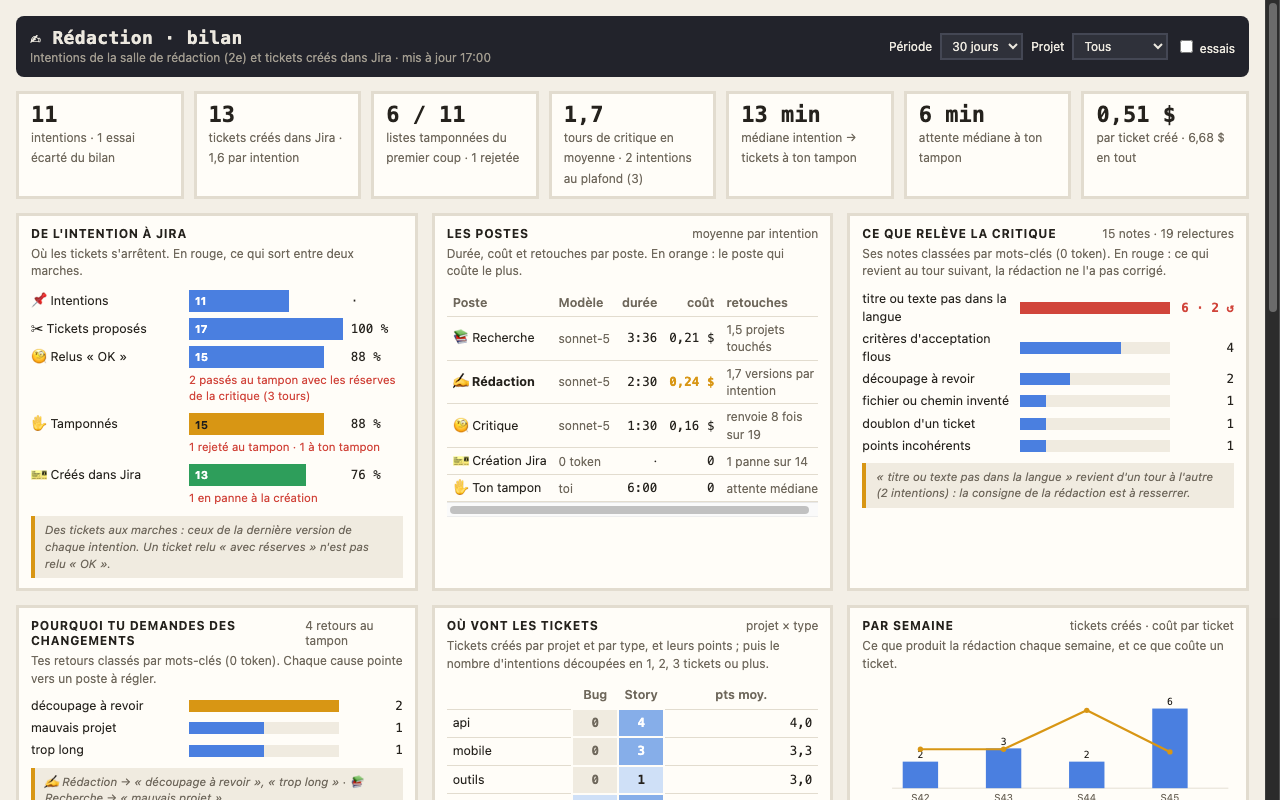
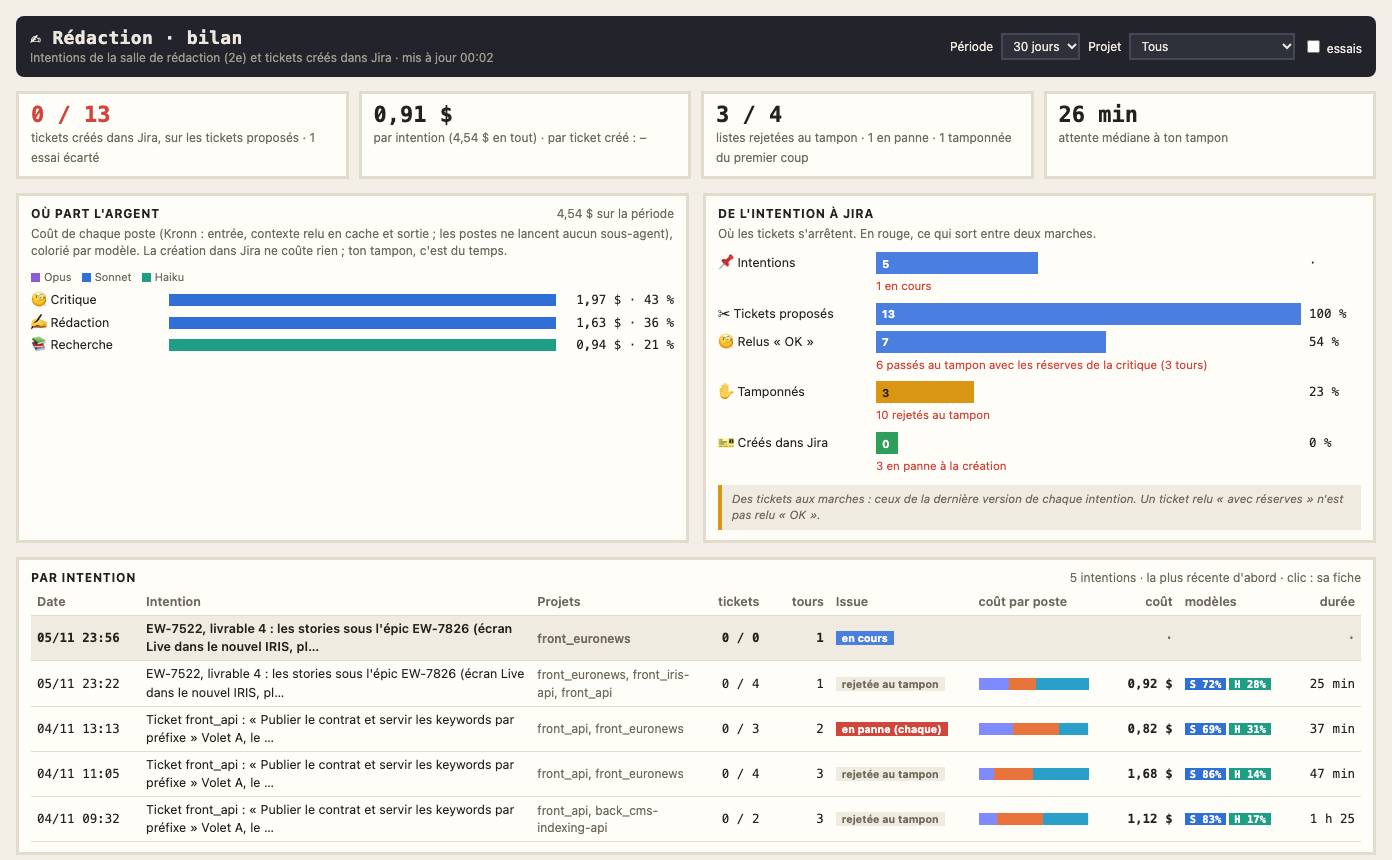
feat(redaction): le bilan comme celui de la chaîne : coût par poste et modèle, fiche en onglets (#216)
## 🎯 Quoi et pourquoi
Même principe que la page « Chaîne · bilan » (#215) : la page «
Rédaction · bilan » avait 7 chiffres, 6 blocs, et une fiche en 4
colonnes étroites où les textes de la recherche et de la critique se
chevauchaient ; le coût n'apparaissait qu'en bas de fiche. Maquette
retenue : https://claude.ai/artifact/Kk28ugB8xgQkpidmi633G4

## 🔧 Changements
- **Page** (`page/redaction-bilan.html`) : 4 chiffres (tickets créés sur
proposés, en rouge quand rien n'arrive dans Jira ; coût par intention et
par ticket créé ; listes rejetées au tampon ; attente médiane à ton
tampon) ; « Où part l'argent » par poste, colorié par modèle, à côté de
l'entonnoir « De l'intention à Jira » ; « Par intention » avec coût par
poste, coût, part des modèles ; **fiche en onglets** : 💰 Coût passage
par passage (rédaction v1, v2… ; passage en échec marqué ; création Jira
et attente au tampon), 🎫 Tickets en cartes (et versions côte à côte,
tickets créés), 🧐 Critique (une carte par note avec sa gravité, tes
retours), 📚 Recherche en pleine largeur (chemins en police de code), ⏱
Déroulé. « Analyse de la rédaction » repliée (postes, critique,
changements, où vont les tickets, semaines).
- **Relevé** (`redaction_bilan.py`, 0 token) : le coût, les jetons, le
modèle et la durée de chaque passage (`passages`), la gravité des notes
de la critique ; un cache d'avant est relu une fois. Le coût de Kronn
(`agent_provenance.attempts[].cost_usd`) y est complet : les postes de
[…]

Changed region(s): [[0.0, 0.0, 1.0, 1.0], [0.0312, 0.5, 0.0938, 0.5312]]

diff --git a/page/redaction-bilan.html b/page/redaction-bilan.html
@@ -13,18 +13,21 @@
   --bg:#f3efe6; --panel:#fffdf8; --ink:#25221d; --muted:#6f685c; --line:#e2dccf; --chip:#f0ebe0;
   --accent:#2f6fd6; --ok:#2e9e5b; --warn:#d89614; --err:#d1453b; --info:#4a7fe0; --idle:#7a7266; --on-accent:#ffffff;
   --h0:#f0ebe0; --h1:#cfe0f7; --h2:#86aee9; --h3:#2f6fd6; --hx:#d1453b; --sign:#22232b; --sign-ink:#ece8df; --sign-mut:#a29c90;
+  --opus:#8a5cd6; --sonnet:#2f6fd6; --haiku:#1f9e86;
 }
 @media (prefers-color-scheme:dark){:root:not([data-theme="light"]){
   color-scheme:dark;
   --bg:#17181c; --panel:#202228; --ink:#ece8df; --muted:#a29c90; --line:#2f323a; --chip:#2a2d34;
   --accent:#6b9cf0; --ok:#4cc27c; --warn:#f0b03a; --err:#f06a5f; --info:#7aa2f2; --idle:#9a9284; --on-accent:#0d1b33;
   --h0:#2a2d34; --h1:#2c3d5c; --h2:#3f63a3; --h3:#6b9cf0; --hx:#f06a5f;
+  --opus:#b48cff; --sonnet:#6b9cf0; --haiku:#3fc7b0;
 }}
 :root[data-theme="dark"]{
   color-scheme:dark;
   --bg:#17181c; --panel:#202228; --ink:#ece8df; --muted:#a29c90; --line:#2f323a; --chip:#2a2d34;
   --accent:#6b9cf0; --ok:#4cc27c; --warn:#f0b03a; --err:#f06a5f; --info:#7aa2f2; --idle:#9a9284; --on-accent:#0d1b33;
   --h0:#2a2d34; --h1:#2c3d5c; --h2:#3f63a3; --h3:#6b9cf0; --hx:#f06a5f;
+  --opus:#b48cff; --sonnet:#6b9cf0; --haiku:#3fc7b0;
 }
 *{box-sizing:border-box}
 html,body{margin:0}
@@ -81,7 +84,18 @@ tr.row{cursor:pointer}tr.row:hover td,tr.row:focus-visible td{background:var(--c
 .note{border-left:4px solid var(--warn);background:var(--chip);padding:6px 10px;font-size:12.5px;overflow-wrap:anywhere;white-space:normal}
 .note.ok{border-color:var(--ok)}
 .empty{padding:40px 16px;text-align:center;color:var(--muted)}
-button:focus-visible,select:focus-visible,tr.row:focus-visible{outline:3px solid var(--accent);outline-offset:1px}.funnel{display:grid;gap:6px}
+button:focus-visible,select:focus-visible,tr.row:focus-visible,summary:focus-visible{outline:3px solid var(--accent);outline-offset:1px}
+.chip{display:inline-block;font:700 10.5px ui-monospace,Menlo,monospace;padding:0 5px;margin-right:3px;color:#fff}
+.chip.opus{background:var(--opus)}.chip.sonnet{background:var(--sonnet)}.chip.haiku{background:var(--haiku)}.chip.autre{background:var(--idle)}
+.mstack{display:flex;height:12px;background:var(--chip)}.mstack i{display:block;height:100%}
+.tabs{display:flex;gap:2px;border-bottom:2px solid var(--line);margin:10px 0;flex-wrap:wrap}
+.tabs button{background:none;border:0;border-bottom:3px solid transparent;margin-bottom:-2px;color:var(--muted);font:600 13px system-ui,sans-serif;padding:6px 10px;cursor:pointer}
+.tabs button.on{color:var(--ink);border-color:var(--accent)}
+.cards{display:grid;grid-template-columns:repeat(auto-fill,minmax(min(100%,320px),1fr));gap:8px}
+.card{background:var(--chip);padding:8px 10px;display:grid;gap:4px;font-size:12.5px}.card p{margin:0;overflow-wrap:anywhere}
+.pistes{margin:6px 0 0;padding-left:18px;display:grid;gap:4px;font-size:12.5px;max-width:120ch}.pistes code{font:12px ui-monospace,Menlo,monospace;overflow-wrap:anywhere}
+details.analyse{border:3px solid var(--line);background:var(--panel);padding:8px 12px}details.analyse>summary{cursor:pointer;font:700 12px system-ui;text-transform:uppercase;letter-spacing:.06em}
+details.analyse[open]>summary{margin-bottom:10px}.funnel{display:grid;gap:6px}
 .funnel .st{display:grid;grid-template-columns:150px minmax(0,1fr) 52px;gap:8px;align-items:center;font-size:12.5px}
 .funnel .b{height:22px;background:var(--info);display:flex;align-items:center;padding-left:6px;color:#fff;font:700 11px system-ui;min-width:22px}
 .funnel .b.ok{background:var(--ok)}.funnel .b.warn{background:var(--warn);color:#1c1c1c}
@@ -120,6 +134,8 @@ const esc=s=>String(s==null?'':s).replace(/[&<>"']/g,c=>({'&':'&amp;','<':'&lt;'
 const fmtDur=s=>{if(s==null)return '–';if(s<60)return Math.round(s)+' s';const m=Math.round(s/60);return m<60?m+' min':Math.floor(m/60)+' h '+String(m%60).padStart(2,'0');};
 const fmtMs=ms=>{if(ms==null)return '–';const s=Math.round(ms/1000);return Math.floor(s/60)+':'+String(s%60).padStart(2,'0');};
 const fmtUsd=v=>(v||0).toFixed(2).replace('.',',')+' $';
+const MODS=[['opus','Opus'],['sonnet','Sonnet'],['haiku','Haiku']], fam=m=>(MODS.find(([k])=>String(m||'').includes(k))||['autre'])[0];
+const PCOUL={recherche:'#7d8bff',redaction:'#e8743b',critique:'#2a9fc9'};
 const fmt1=v=>(v||0).toFixed(1).replace('.',',');
 const pct=(a,b)=>b?Math.round(a/b*100):0;
 const median=a=>{if(!a.length)return null;const s=[...a].sort((x,y)=>x-y),m=s.length>>1;return s.length%2?s[m]:(s[m-1]+s[m])/2;};
@@ -193,6 +209,8 @@ function aggregate(data,f){
   const w={};for(const r of rows){const s=week(r.at);if(!s)continue;const x=w[s.k]||(w[s.k]={l:s.l,crees:0,cout:0});x.crees+=(r.crees||[]).length;x.cout+=r.cout||0;}
   a.semaines=Object.keys(w).sort().map(k=>w[k]);
   a.all=all.length;
+  a.argent={};for(const r of rows)for(const[k,v]of Object.entries(r.postes||{})){const o=a.argent[k]||(a.argent[k]={t:0,m:{}});o.t+=v.cout||0;const f=fam(v.modele);o.m[f]=(o.m[f]||0)+(v.cout||0);}
+  a.coutIntention=a.n?a.cout/a.n:null;
   return a;
 }
 const pill=(c,l)=>`<span class="pill ${c}">${esc(l)}</span>`;
@@ -201,15 +219,20 @@ const issuePill=r=>{const[c,l]=ISSUES[r.issue]||['idle',r.issue||'?'];const n=(r
 const bars=(items,max,cls)=>items.map(([label,v,txt,c,back])=>`<span>${esc(label)}</span><span class="bar"><i class="${c||cls||''}" style="width:${max?Math.max(1,Math.round(v/max*100)):0}%"></i></span><span class="v num${back?' back':''}">${esc(txt)}</span>`).join('');
 
 function kpis(a){
+  const prop=a.funnel.proposes;
   return `<div class="kpis">
-  <div class="kpi"><b>${a.n}</b><span>${a.n>1?'intentions':'intention'}${a.essais?' · '+plural(a.essais,'essai écarté','essais écartés')+' du bilan':''}</span></div>
-  <div class="kpi"><b>${a.crees}</b><span>tickets créés dans Jira${a.avecTickets?' · '+fmt1(a.crees/a.avecTickets)+' par intention':''}</span></div>
-  <div class="kpi"><b>${a.premierCoup} / ${a.gated}</b><span>listes tamponnées du premier coup${a.rejetees?' · '+plural(a.rejetees,'rejetée','rejetées'):''}</span></div>
-  <div class="kpi"><b>${a.tours==null?'–':fmt1(a.tours)}</b><span>tour${a.tours>1?'s':''} de critique en moyenne${a.plafond?' · '+plural(a.plafond,'intention','intentions')+' au plafond (3)':''}</span></div>
-  <div class="kpi"><b>${a.avantTampon==null?'–':fmtDur(a.avantTampon/1000)}</b><span>médiane intention → tickets à ton tampon</span></div>
+  <div class="kpi${prop&&!a.crees?' err':''}"><b>${a.crees} / ${prop}</b><span>tickets créés dans Jira, sur les tickets proposés${a.essais?' · '+plural(a.essais,'essai écarté','essais écartés'):''}</span></div>
+  <div class="kpi"><b>${a.coutIntention==null?'–':fmtUsd(a.coutIntention)}</b><span>par intention (${fmtUsd(a.cout)} en tout) · par ticket créé : ${a.coutTicket==null?'–':fmtUsd(a.coutTicket)}</span></div>
+  <div class="kpi"><b>${a.rejetees} / ${a.gated}</b><span>listes rejetées au tampon${a.funnel.panneAvant||a.funnel.creationsKo?' · '+plural(a.rows.filter(r=>r.issue==='panne').length,'en panne','en panne'):''} · ${a.premierCoup} tamponnée${a.premierCoup>1?'s':''} du premier coup</span></div>
   <div class="kpi"><b>${a.attente==null?'–':fmtDur(a.attente/1000)}</b><span>attente médiane à ton tampon</span></div>
-  <div class="kpi"><b>${a.coutTicket==null?'–':fmtUsd(a.coutTicket)}</b><span>par ticket créé · ${fmtUsd(a.cout)} en tout</span></div>
 </div>`;
+}
+function argent(a){
+  const items=POSTES.filter(([k])=>a.argent[k]).map(([k,l])=>[k,l,a.argent[k]]).sort((x,y)=>y[2].t-x[2].t), max=items.length?items[0][2].t:0;
+  return `<div class="box"><div class="h">Où part l'argent <span class="mut">${fmtUsd(a.cout)} sur la période</span></div>
+  <p class="why">Coût de chaque poste (Kronn : entrée, contexte relu en cache et sortie ; les postes ne lancent aucun sous-agent), colorié par modèle. La création dans Jira ne coûte rien ; ton tampon, c'est du temps.</p>
+  <div class="legend" style="margin-bottom:6px">${MODS.map(([k,l])=>`<span><i style="background:var(--${k})"></i>${l}</span>`).join('')}</div>
+  ${items.length?`<div class="hb" style="grid-template-columns:130px minmax(0,1fr) 110px">${items.map(([k,l,o])=>`<span>${l}</span><span class="bar" style="background:none"><span class="mstack" style="width:${max?Math.max(1,o.t/max*100).toFixed(1):0}%">${MODS.filter(([m])=>o.m[m]).map(([m,ml])=>`<i title="${ml} ${fmtUsd(o.m[m])}" style="width:${(o.m[m]/o.t*100).toFixed(1)}%;background:var(--${m})"></i>`).join('')}</span></span><span class="v num">${fmtUsd(o.t)} · ${pct(o.t,a.cout)} %</span>`).join('')}</div>`:'<p class="mut">Pas encore de coût relevé.</p>'}</div>`;
 }
 function funnel(a){
   const f=a.funnel,max=Math.max(1,f.proposes);
@@ -289,13 +312,17 @@ function ticketTags(data,r){
   return (r.crees||[]).map(c=>data.jira_site&&c.key?`<a class="tag mono" href="${esc(data.jira_site+'/browse/'+c.key)}" target="_blank" rel="noopener">${esc(c.key)}</a>`:`<span class="tag mono">${esc(c.key||'?')}</span>`).join(' ');
 }
 function table(data,a,sel){
-  const rows=a.rows.map(r=>`<tr class="row${r.run===sel?' on':''}" data-run="${esc(r.run)}" tabindex="0"><td class="num">${esc(day(r.at))}</td>
-    <td style="white-space:normal">${r.essai?pill('idle','essai')+' ':''}${esc(r.intention.length>90?r.intention.slice(0,89)+'…':r.intention)}</td>
-    <td style="white-space:normal">${ticketTags(data,r)||'<span class="mut">·</span>'}</td><td class="mut">${esc((r.composants||[]).map(projet).join(', '))}</td>
-    <td class="r num">${r.tours||'·'}</td><td>${issuePill(r)}</td><td class="r num">${r.duree_ms==null?'<span class="mut">·</span>':esc(fmtDur(r.duree_ms/1000))}</td>
-    <td class="r num">${r.cout?fmtUsd(r.cout):'<span class="mut">·</span>'}</td></tr>`).join('');
-  return `<div class="box"><div class="h">Historique <span class="mut">${plural(a.n,'intention','intentions')} · la plus récente d'abord · clic : sa fiche</span></div>
-  ${rows?`<div class="scroll"><table><tr><th>Date</th><th>Intention</th><th>Tickets</th><th>Projets</th><th class="r">tours</th><th>Issue</th><th class="r">durée</th><th class="r">coût</th></tr>${rows}</table></div>`:'<p class="mut">Aucune intention sur la période.</p>'}</div>`;
+  const rows=a.rows.map(r=>{const ps=r.postes||{}, c=r.cout||0, md={};for(const v of Object.values(ps)){const f=fam(v.modele);md[f]=(md[f]||0)+(v.cout||0);}
+    return `<tr class="row${r.run===sel?' on':''}" data-run="${esc(r.run)}" tabindex="0"><td class="num">${esc(day(r.at))}</td>
+    <td style="white-space:normal;max-width:340px">${r.essai?pill('idle','essai')+' ':''}${esc(r.intention.length>90?r.intention.slice(0,89)+'…':r.intention)}</td>
+    <td class="mut" style="white-space:normal;max-width:150px">${esc((r.composants||[]).map(projet).join(', '))}</td>
+    <td class="r num">${(r.crees||[]).length} / ${r.proposes||0}</td><td>${ticketTags(data,r)}</td><td class="r num">${r.tours||'·'}</td><td>${issuePill(r)}</td>
+    <td>${c?`<span class="mstack" style="width:110px">${POSTES.filter(([k])=>ps[k]).map(([k,l])=>`<i title="${l} ${fmtUsd(ps[k].cout)}" style="width:${(ps[k].cout/c*100).toFixed(1)}%;background:${PCOUL[k]}"></i>`).join('')}</span>`:''}</td>
+    <td class="r num">${c?'<b>'+fmtUsd(c)+'</b>':'<span class="mut">·</span>'}</td>
+    <td>${MODS.filter(([k])=>md[k]).map(([k,l])=>`<span class="chip ${k}" title="${l} ${fmtUsd(md[k])}">${l[0]} ${c?pct(md[k],c):0}%</span>`).join('')}</td>
+    <td class="r num">${r.duree_ms==null?'<span class="mut">·</span>':esc(fmtDur(r.duree_ms/1000))}</td></tr>`;}).join('');
+  return `<div class="box"><div class="h">Par intention <span class="mut">${plural(a.n,'intention','intentions')} · la plus récente d'abord · clic : sa fiche</span></div>
+  ${rows?`<div class="scroll"><table><tr><th>Date</th><th>Intention</th><th>Projets</th><th class="r">tickets</th><th></th><th class="r">tours</th><th>Issue</th><th>coût par poste</th><th class="r">coût</th><th>modèles</th><th class="r">durée</th></tr>${rows}</table></div>`:'<p class="mut">Aucune intention sur la période.</p>'}</div>`;
 }
 function gantt(der){
   const pts=(der||[]).map(s=>({...s,t:Date.parse(s.at||'')})).filter(s=>s.t&&ROW[s.n]);
@@ -313,7 +340,7 @@ function versions(f){
     return `<td${t&&j&&t.summary===p?' class="mut"':''}>${t?(j&&t.summary===p?'identique':esc(t.summary)):'<span class="mut">·</span>'}</td>`;}).join('')}</tr>`).join('');
   return `<div class="scroll"><table class="vers"><tr><th></th>${vs.map(v=>`<th>v${esc(v.v)}</th>`).join('')}</tr>${rows}</table></div>`;
 }
-function fiche(data,r){
+function fiche(data,r,tab){
   if(!r)return '';
   const f=(data.fiches||{})[r.run];
   const head=`<div><b style="font-size:15px">${esc(r.intention.length>140?r.intention.slice(0,139)+'…':r.intention)}</b><div class="mut">${esc(day(r.at))}${r.type?' · '+esc(r.type):''}${r.points?' · '+esc(r.points)+' pts':''}${r.sprint?' · '+(r.sprint==='next'?'Sprint suivant':'Backlog'):''}${r.parent?' · parent '+esc(r.parent):''} · ${plural(r.proposes||0,'ticket proposé','tickets proposés')}${r.cout?' · '+fmtUsd(r.cout):''}${r.partiel?' · d\'avant l\'historique : dernière version seulement':''}</div></div>`;
@@ -321,19 +348,26 @@ function fiche(data,r){
   const rech=f.recherche||{};
   const crees=(r.crees||[]).length?`<table>${r.crees.map(c=>`<tr><td class="mono">${data.jira_site&&c.key?`<a href="${esc(data.jira_site+'/browse/'+c.key)}" target="_blank" rel="noopener">${esc(c.key)}</a>`:esc(c.key)}</td><td style="white-space:normal">${esc(c.title)}</td><td class="mut">${esc([r.type,c.points!=null?c.points+' pts':'',c.composant].filter(Boolean).join(' · '))}</td></tr>`).join('')}</table>`
     :`<p class="mut">${r.issue==='rejetee'?'Rien de créé : liste rejetée au tampon.':r.issue==='panne'?'Rien de créé : en panne'+(r.panne?' à l\'étape '+esc(r.panne):'')+'.':'Rien de créé pour l\'instant.'}</p>`;
-  const post=[['recherche','📚 Recherche'],['redaction','✍ Rédaction'],['critique','🧐 Critique']].filter(([k])=>(r.postes||{})[k]);
-  const mx=Math.max(0.0001,...post.map(([k])=>r.postes[k].cout||0));
-  return `<div class="box">${head}<div class="fiche">
-  <div class="sec wide"><h4>Déroulé</h4>${gantt(f.deroule)}</div>
-  <div class="sec wide"><h4>📌 L'intention</h4><div class="teams">${esc(f.intention||r.intention)}${f.parent_de?'\n\nParent : '+esc(r.parent)+', l\'épic de '+esc(f.parent_de):''}</div></div>
-  <div class="sec"><h4>📚 Ce qu'a trouvé la recherche</h4>${(rech.composants||[]).length?`<div>${rech.composants.map(c=>`<span class="tag">${esc(c)}</span>`).join(' ')}</div>`:''}
-    ${(rech.pistes||[]).length?`<ul class="check">${rech.pistes.map(p=>`<li>${esc(p)}</li>`).join('')}</ul>`:'<p class="mut">Pas de piste gardée.</p>'}</div>
-  <div class="sec"><h4>🧐 Notes de la critique</h4>${(f.critiques||[]).map(k=>`<div class="mut">Version ${esc(k.v)} · ${k.verdict==='ok'?'OK':'à retoucher'}</div>${(k.notes||[]).length?`<ul class="check">${k.notes.map(n=>`<li>${n.ticket==0?'découpage':'T'+esc(n.ticket)} : ${esc(n.note)}</li>`).join('')}</ul>`:''}`).join('')||'<p class="mut">Pas de critique gardée.</p>'}</div>
-  <div class="sec"><h4>✍ Versions</h4>${versions(f)}</div>
-  <div class="sec"><h4>🎫 Tickets créés</h4>${crees}
-    ${(f.retours||[]).length?f.retours.map(x=>`<p class="quote">✋ ${esc((CAUSES[x.cause]||[x.cause])[0])} : « ${esc(x.texte)} »</p>`).join(''):`<p class="quote">${r.gate&&r.gate.visites?'Ton retour au tampon : aucun'+(r.gate.decision==='approuvee'?', validés du premier coup.':'.'):'Pas encore passé à ton tampon.'}</p>`}</div>
-  ${post.length?`<div class="sec"><h4>Coût par poste</h4><div class="hb">${bars(post.map(([k,l])=>[l+(r.postes[k].passages>1?' ×'+r.postes[k].passages:''),r.postes[k].cout||0,fmtUsd(r.postes[k].cout),'']),mx)}</div></div>`:''}
-  </div></div>`;
+  const T=[['cout','💰 Coût'],['tickets','🎫 Tickets · '+(r.proposes||0)],['critique','🧐 Critique'],['recherche','📚 Recherche'],['deroule','⏱ Déroulé']];
+  const cur=T.some(([k])=>k===tab)?tab:'cout';
+  const PN=Object.fromEntries(POSTES);
+  const body={
+    cout:()=>{const ps=f.passages&&f.passages.length?(()=>{const n={};return f.passages.map(x=>{n[x.n]=(n[x.n]||0)+1;return {...x,l:PN[x.n]+(x.n==='redaction'?' v'+n[x.n]:x.n==='critique'?' '+n[x.n]:'')};});})()
+        :POSTES.filter(([k])=>(r.postes||{})[k]).map(([k,l])=>({...r.postes[k],l:l+(r.postes[k].passages>1?' ×'+r.postes[k].passages:''),n:k}));
+      const mx=Math.max(0.0001,...ps.map(x=>x.cout||0));
+      return `<div class="scroll"><table><tr><th>poste</th><th>modèle</th><th class="r">durée</th><th class="r">sortie</th><th class="r">coût</th><th>part</th></tr>${ps.map(x=>`<tr><td>${esc(x.l)}${x.s==='Failed'?' '+pill('err','échec'):''}</td><td><span class="chip ${fam(x.modele)}">${esc(modele(x.modele))}</span></td><td class="r num">${fmtMs(x.ms)}</td><td class="r num">${Math.round((x.tok||0)/1e3)} k</td><td class="r num">${fmtUsd(x.cout)}</td><td><span class="mstack" style="width:140px"><i style="width:${((x.cout||0)/mx*100).toFixed(1)}%;background:${PCOUL[x.n]||'var(--info)'}"></i></span></td></tr>`).join('')}
+      <tr><td>🎫 Création Jira</td><td class="mut">sans IA</td><td></td><td></td><td class="r num">0 $</td><td></td></tr>
+      <tr><td>✋ Ton tampon</td><td class="mut">toi</td><td class="r num">${fmtMs((r.gate||{}).attente_ms||0)}</td><td></td><td></td><td></td></tr>
+      <tr><td><b>Total</b></td><td></td><td></td><td></td><td class="r num"><b>${fmtUsd(r.cout)}</b></td><td></td></tr></table></div>`;},
+    tickets:()=>{const v=(f.versions||[]).slice(-1)[0];
+      return (v?`<div class="cards">${(v.tickets||[]).map((t,k)=>{const c=(r.crees||[])[k];return `<div class="card"><div><b>T${k+1}</b> <span class="tag">${esc(projet(t.composant))}</span> <span class="mut">${esc(t.points==null?'?':t.points)} pts</span> ${c&&c.key?pill('ok',c.key):pill('idle','pas créé')}</div><p>${esc(t.summary)}</p></div>`;}).join('')}</div><p class="mut" style="margin:6px 0 0">Version ${esc(v.v)} sur ${(f.versions||[]).length}.</p>`:'<p class="mut">Aucune version gardée.</p>')
+        +((f.versions||[]).length>1?`<h4 style="margin-top:12px">Les versions</h4>${versions(f)}`:'')+`<h4 style="margin-top:12px">🎫 Tickets créés</h4>${crees}`;},
+    critique:()=>(f.critiques||[]).length?(f.critiques||[]).map(k=>`<div style="margin:8px 0 6px"><b>Version ${esc(k.v)}</b> · ${k.verdict==='ok'?pill('ok','OK'):pill('warn','à retoucher')}</div><div class="cards">${(k.notes||[]).map(n=>`<div class="card"><div><b>${n.ticket==0?'découpage':'T'+esc(n.ticket)}</b> ${n.gravite==='bloquant'?pill('warn','bloquant'):n.gravite==='conseil'?pill('idle','conseil'):''}</div><p>${esc(n.note)}${String(n.note||'').length>=299?'…':''}</p></div>`).join('')||'<p class="mut">Aucune note.</p>'}</div>`).join('')
+      +((f.retours||[]).length?`<h4 style="margin-top:12px">Tes retours</h4>`+f.retours.map(x=>`<p class="quote">✋ ${esc((CAUSES[x.cause]||[x.cause])[0])} : « ${esc(x.texte)} »</p>`).join(''):''):'<p class="mut">La critique n\'est pas passée.</p>',
+    recherche:()=>`${(rech.composants||[]).length?`<div>${rech.composants.map(c=>`<span class="tag">${esc(c)}</span>`).join(' ')}</div>`:''}
+      ${(rech.pistes||[]).length?`<ul class="pistes">${rech.pistes.map(p=>`<li>${esc(p).replace(/((?:application|src|docs|tests)\/\S+|\S+\.(?:php|ts|tsx|js|twig|yml|md))/g,'<code>$1</code>')}</li>`).join('')}</ul>`:'<p class="mut">Pas de piste gardée.</p>'}`,
+    deroule:()=>`${gantt(f.deroule)}<h4 style="margin-top:12px">📌 L'intention</h4><div class="teams">${esc(f.intention||r.intention)}${f.parent_de?'\n\nParent : '+esc(r.parent)+', l\'épic de '+esc(f.parent_de):''}</div>`};
+  return `<div class="box">${head}<div class="tabs" role="tablist">${T.map(([k,l])=>`<button type="button" role="tab" data-tab="${k}" aria-selected="${k===cur}" class="${k===cur?'on':''}">${esc(l)}</button>`).join('')}</div>${body[cur]()}</div>`;
 }
 function render(data,st){
   if(!data||!(data.intentions||[]).length)return `<header><h1>✍ Rédaction · bilan</h1></header><div class="box empty">Aucune intention dans l'historique pour l'instant. Il se remplit à chaque intention lancée depuis la fiche de l'agent des tickets.</div>`;
@@ -346,20 +380,23 @@ function render(data,st){
   <label for="f-projet">Projet</label><select id="f-projet"><option value="">Tous</option>${ps.map(p=>`<option${p===st.projet?' selected':''}>${esc(p)}</option>`).join('')}</select>
   <label for="f-essais"><input type="checkbox" id="f-essais"${st.essais?' checked':''}> essais</label></div></header>
   ${data.error?`<div class="note">Relevé incomplet : ${esc(data.error)}</div>`:''}
-  ${kpis(a)}<div class="grid2">${funnel(a)}${postes(a)}${critique(a)}${causes(a)}${projets(a)}${semaines(a)}</div>
-  ${sel?table(data,a,sel.run):table(data,a,null)}${fiche(data,sel)}`;
+  ${kpis(a)}<div class="grid2">${argent(a)}${funnel(a)}</div>
+  ${sel?table(data,a,sel.run):table(data,a,null)}${fiche(data,sel,st.tab)}
+  <details class="analyse"${st.analyse?' open':''}><summary>Analyse de la rédaction : les postes, ce que relève la critique, tes changements, où vont les tickets, par semaine</summary>
+  <div class="grid2">${postes(a)}${critique(a)}${causes(a)}${projets(a)}${semaines(a)}</div></details>`;
 }
 const B={readRedactionBilan,aggregate,render,gantt,pick,week};
 if(typeof window!=='undefined')window.REDACTION_BILAN=B;
 if(typeof document==='undefined'||!document.getElementById('app'))return;
 let DATA=readRedactionBilan(window.KronnPageData);
-const ST={jours:30,projet:'',essais:false,sel:null};
+const ST={jours:30,projet:'',essais:false,sel:null,tab:'cout',analyse:false};
 const app=document.getElementById('app');
 function draw(){app.innerHTML=render(DATA,ST);}
 app.addEventListener('change',e=>{const t=e.target;if(t.id==='f-jours')ST.jours=+t.value;else if(t.id==='f-projet')ST.projet=t.value;else if(t.id==='f-essais')ST.essais=t.checked;else return;draw();});
-const choose=e=>{const r=e.target.closest('tr.row');if(!r)return;ST.sel=r.dataset.run;draw();const n=app.querySelector('tr.row.on');if(n)n.focus();};
+const choose=e=>{const tb=e.target.closest('[data-tab]');if(tb){ST.tab=tb.dataset.tab;draw();return;}const r=e.target.closest('tr.row');if(!r)return;ST.sel=r.dataset.run;draw();const n=app.querySelector('tr.row.on');if(n)n.focus();};
 app.addEventListener('click',e=>{if(e.target.closest('a'))return;choose(e);});
 app.addEventListener('keydown',e=>{if(e.key==='Enter'||e.key===' '){if(e.target.closest('tr.row')){e.preventDefault();choose(e);}}});
+app.addEventListener('toggle',e=>{if(e.target.matches&&e.target.matches('details.analyse'))ST.analyse=e.target.open;},true);
 window.addEventListener('kronn:page-data',e=>{const d=readRedactionBilan(e.detail||window.KronnPageData);if(d){DATA=d;draw();}});
 draw();
 })();

diff --git a/tests/redaction-bilan-page.test.js b/tests/redaction-bilan-page.test.js
@@ -78,22 +78,37 @@ test('semaines ISO', () => {
   assert.equal(B.week('rien'), null);
 });
 
-test('rendu complet : chiffres, sections, fiche de la plus récente, liens Jira, textes échappés', () => {
-  const h = B.render(DATA, {jours: 30, projet: '', essais: false, sel: null});
-  for (const s of ['tickets créés dans Jira', '1 essai écarté du bilan', 'De l\'intention à Jira', 'Les postes', 'Ce que relève la critique',
-    'Pourquoi tu demandes des changements', 'Où vont les tickets', 'Par semaine', 'Historique', 'Déroulé', 'Ce qu\'a trouvé la recherche',
-    'Notes de la critique', 'Versions', 'Tickets créés', 'Coût par poste', 'titre ou texte pas dans la langue', '2 · 1 ↺',
-    '1 en panne avant le tampon', '1 passé au tampon avec les réserves', '1 rejeté au tampon', '1 en panne à la création',
-    'renvoie 2 fois sur 6', 'https://dm.atlassian.net/browse/DM-7853', '✍ Rédaction v2', 'identique', 'découpage : à découper',
-    '✍ Rédaction → « découpage à revoir »', 'en panne (recherche)'])
+test('rendu complet : chiffres, sections, fiche en onglets de la plus récente, liens Jira, textes échappés', () => {
+  const st = {jours: 30, projet: '', essais: false, sel: null};
+  const h = B.render(DATA, st);
+  for (const s of ['tickets créés dans Jira', '1 essai écarté', 'Où part l\'argent', 'De l\'intention à Jira', 'Par intention', 'Analyse de la rédaction',
+    'Les postes', 'Ce que relève la critique', 'Pourquoi tu demandes des changements', 'Où vont les tickets', 'Par semaine',
+    'titre ou texte pas dans la langue', '2 · 1 ↺', '1 en panne avant le tampon', '1 passé au tampon avec les réserves', '1 rejeté au tampon',
+    '1 en panne à la création', 'renvoie 2 fois sur 6', 'https://dm.atlassian.net/browse/DM-7853', '✍ Rédaction → « découpage à revoir »',
+    'en panne (recherche)', '💰 Coût', '🎫 Création Jira', '✋ Ton tampon'])
     assert.ok(h.includes(s), s);
-  assert.ok(h.includes('Refondre le &lt;lecteur&gt;'));
-  assert.ok(h.includes('Fusionne &lt;T1&gt;'));
-  assert.ok(!/undefined|NaN/.test(h));
+  assert.ok(!/<details class="analyse" open/.test(h), 'l\'analyse repliée');
+  const tab = t => B.render(DATA, {...st, tab: t});
+  assert.ok(tab('deroule').includes('✍ Rédaction v2') && tab('deroule').includes('Refondre le &lt;lecteur&gt;'));
+  assert.ok(tab('tickets').includes('identique') && tab('tickets').includes('Tickets créés'));
+  assert.ok(tab('critique').includes('<b>découpage</b>') && tab('critique').includes('Fusionne &lt;T1&gt;'));
+  assert.ok(tab('recherche').includes('class="pistes"') || tab('recherche').includes('Pas de piste'));
+  for (const t of ['cout', 'tickets', 'critique', 'recherche', 'deroule']) assert.ok(!/undefined|NaN/.test(tab(t)), t);
   assert.ok(!h.includes('[ESSAI du Bureau]'), 'essais écartés par défaut');
-  assert.ok(B.render(DATA, {jours: 30, projet: '', essais: true, sel: null}).includes('[ESSAI du Bureau]'));
-  const h2 = B.render(DATA, {jours: 30, projet: '', essais: false, sel: '2'});
-  assert.ok(h2.includes('Fiche détaillée gardée pour les intentions les plus récentes'));
+  assert.ok(B.render(DATA, {...st, essais: true}).includes('[ESSAI du Bureau]'));
+  assert.ok(B.render(DATA, {...st, sel: '2'}).includes('Fiche détaillée gardée pour les intentions les plus récentes'));
+});
+
+test('coût : par poste et par modèle, et passage par passage dans la fiche', () => {
+  const r = DATA.intentions.find(x => (DATA.fiches || {})[x.run]);
+  const D = {...DATA, fiches: {...DATA.fiches, [r.run]: {...DATA.fiches[r.run], passages: [
+    {n: 'recherche', at: '2026-11-01T10:00:00Z', ms: 60000, tok: 1000, cout: 0.2, modele: 'claude-haiku-4-5', s: 'Success'},
+    {n: 'redaction', at: '2026-11-01T10:01:00Z', ms: 60000, tok: 2000, cout: 0.3, modele: 'claude-sonnet-5', s: 'Success'},
+    {n: 'redaction', at: '2026-11-01T10:05:00Z', ms: 60000, tok: 2000, cout: 0.4, modele: 'claude-sonnet-5', s: 'Failed'}]}}};
+  const h = B.render(D, {jours: 30, sel: r.run, tab: 'cout'});
+  for (const s of ['📚 Recherche', '✍ Rédaction v1', '✍ Rédaction v2', 'chip haiku', 'chip sonnet', 'échec']) assert.ok(h.includes(s), s);
+  const a = B.aggregate(DATA, {jours: 30});
+  assert.ok(Object.keys(a.argent).length > 0 && Object.values(a.argent).every(o => o.t >= 0));
 });
 
 test('sans historique : un message, pas de tableau vide', () => {

diff --git a/workflows/redaction_bilan.py b/workflows/redaction_bilan.py
@@ -7,8 +7,8 @@ tickets créés, 0 token (cron redaction_bilan, toutes les 15 min). Deux étapes
 Sources : l'historique (jira.create.historique, sinon ~/.local/share/pixel-bureau/historique/ticket/<run>.json, écrit par
 ticket.py : la demande, chaque version des tickets, chaque critique, tes retours, les tickets créés) ; sans historique (runs
 d'avant), le dossier du run (~/.cache/pixel-bureau/ticket/<run>/, dernière version seulement : ligne « partielle »). Par run,
-ce que seul Kronn sait : durée, jetons, coût et modèle de chaque agent (runs des sous-workflows de postes, par
-parent_run_id), passages au tampon (étape relire), attente et décision, créations en échec, déroulé. Un run fini n'est relu
+ce que seul Kronn sait : durée, jetons, coût et modèle de chaque agent, poste par poste et passage par passage (runs des
+sous-workflows de postes, par parent_run_id ; les postes ne lancent aucun sous-agent, le coût de Kronn est donc complet), passages au tampon (étape relire), attente et décision, créations en échec, déroulé. Un run fini n'est relu
 qu'une fois (~/.cache/pixel-bureau/redaction_bilan/<run>.json) ; Kronn finit par oublier les vieux runs, le cache les garde.
 
   {generated_at, periode_jours, jira_site, error, intentions: [ligne], fiches: {run: fiche}, kpi: {value, label, short}}
@@ -70,7 +70,7 @@ def conso(parent, run, enfants, crea):
     déroulé (étapes du parent)."""
     d = get(f"/workflows/{parent}/runs/{run['id']}") or {}
     steps = d.get("step_results") or []
-    postes = {}
+    postes, passages = {}, []
     for poste, wf, r in enfants:
         try:
             rd = get(f"/workflows/{wf}/runs/{r['id']}") or {}
@@ -84,6 +84,8 @@ def conso(parent, run, enfants, crea):
                 p["cout"] = round(p["cout"] + cout(s), 4)
                 p["modele"] = s.get("step_model") or p["modele"]
                 p["passages"] += 1
+                passages.append({"n": poste, "at": s.get("started_at"), "ms": int(s.get("duration_ms") or 0), "tok": int(s.get("tokens_used") or 0),
+                                 "cout": cout(s), "modele": s.get("step_model"), "s": s.get("status")})
     gates = [s for s in steps if s.get("step_name") == "relire"]
     status = d.get("status") or run.get("status")
     ok = sum(r.get("status") == "Success" for r in crea)
@@ -98,6 +100,7 @@ def conso(parent, run, enfants, crea):
     panne = next((s.get("step_name") for s in steps if s.get("status") == "Failed" and s.get("step_name") != "aiguillage"), None)
     return {"run": run["id"], "status": status, "debut": d.get("started_at") or run.get("started_at"),
             "fin": d.get("finished_at") or run.get("finished_at"), "postes": postes,
+            "passages": sorted(passages, key=lambda x: x["at"] or ""),
             "gate": {"visites": len(gates), "changements": max(0, len(gates) - 1), "attente_ms": sum(int(s.get("duration_ms") or 0) for s in gates),
                      "decision": decision, "at": gates[0].get("started_at") if gates else None},
             "creations": {"ok": ok, "echecs": len(crea) - ok}, "panne": panne,
@@ -125,8 +128,12 @@ def releve():
             continue
         path = cache_path(run["id"])
         if run.get("status") not in ACTIVE and os.path.exists(path):
-            en_cache += 1
-            continue
+            try:
+                if "passages" in read_json(path):  # un cache d'avant le coût par passage est relu une fois
+                    en_cache += 1
+                    continue
+            except (OSError, ValueError):
+                pass
         enfants = []
         for wf, poste in wf_poste.items():
             if wf not in sous:
@@ -236,10 +243,10 @@ def fiche(h, c):
             "recherche": {"composants": (h.get("recherche") or {}).get("composants") or [], "pistes": [p[:220] for p in pistes[:8]]},
             "versions": [{"v": v.get("v"), "tickets": [{"summary": str(x.get("summary") or "")[:160], "composant": x.get("composant"), "points": x.get("points")}
                                                        for x in (v.get("tickets") or [])[:8]]} for v in sorted(h.get("versions") or [], key=lambda v: v.get("v") or 0)[-4:]],
-            "critiques": [{"v": k.get("v"), "verdict": k.get("verdict"), "notes": [{"ticket": n.get("ticket"), "note": str(n.get("note") or "")[:300]}
+            "critiques": [{"v": k.get("v"), "verdict": k.get("verdict"), "notes": [{"ticket": n.get("ticket"), "gravite": n.get("gravite"), "note": str(n.get("note") or "")[:300]}
                                                                                   for n in (k.get("notes") or [])[:8]]} for k in sorted(h.get("critiques") or [], key=lambda k: k.get("v") or 0)[-4:]],
             "retours": [{"at": r.get("at"), "texte": str(r.get("texte") or "")[:300], "cause": classe(r.get("texte"), CAUSES)} for r in (h.get("retours") or [])[-6:]],
-            "deroule": c.get("deroule") or []}
+            "deroule": c.get("deroule") or [], "passages": c.get("passages") or []}
 
 
 def kpi(rows, now):

diff --git a/tests/test_redaction_bilan.py b/tests/test_redaction_bilan.py
@@ -109,6 +109,9 @@ class RedactionBilanTest(unittest.TestCase):
         self.assertEqual(c["gate"], {"visites": 2, "changements": 1, "attente_ms": 360000, "decision": "approuvee", "at": "2026-11-04T10:14:00Z"})
         self.assertEqual((c["creations"], c["panne"]), ({"ok": 2, "echecs": 0}, None), "l'aiguillage en échec est un renvoi, pas une panne")
         self.assertEqual([s["n"] for s in c["deroule"]][:4], ["recherche", "redaction", "critique", "redaction"])
+        # passage par passage (la fiche : rédaction v1, v2…), avec le coût et le modèle de chacun
+        self.assertEqual([(x["n"], x["cout"]) for x in c["passages"] if x["n"] == "redaction"], [("redaction", 0.15), ("redaction", 0.15)])
+        self.assertEqual(c["passages"][0]["modele"], "claude-sonnet-5")
         self.assertEqual(json.loads(Path(self.tmp, "cache", "r2.json").read_text())["gate"]["decision"], "rejetee")
         self.assertEqual(json.loads(Path(self.tmp, "cache", "r3.json").read_text())["gate"]["decision"], "en_attente")
         r0 = json.loads(Path(self.tmp, "cache", "r0.json").read_text())
@@ -117,6 +120,10 @@ class RedactionBilanTest(unittest.TestCase):
         res = self.m.releve()
         self.assertEqual((res["lus"], res["en_cache"]), (1, 3), "seul le run encore actif est relu")
         self.assertNotIn("/workflows/wtk/runs/r1", self.calls)
+        c = json.loads(Path(self.tmp, "cache", "r1.json").read_text())
+        del c["passages"]
+        Path(self.tmp, "cache", "r1.json").write_text(json.dumps(c))
+        self.assertEqual(self.m.releve()["lus"], 2, "un cache d'avant le coût par passage est relu une fois")
 
     def test_bilan_joins_the_history_and_the_releve(self):
         self.m.releve()

diff --git a/guide/fonctionnalites/30-redaction-bilan.md b/guide/fonctionnalites/30-redaction-bilan.md
@@ -2,7 +2,7 @@
 
 Une page Kronn à part, « Rédaction · bilan », garde l'historique des intentions passées par la salle de rédaction du 2e étage ([La rédaction et la revue](28-redaction.md), [Créer un ticket](20-creer-ticket.md)) et des tickets créés dans Jira : où les tickets s'arrêtent, ce que coûte chaque poste, ce que relève la critique, pourquoi tu demandes des changements au tampon, vers quels projets partent les tickets. Elle sert à suivre la rédaction et à régler ses consignes. Son chiffre clé tient dans l'écran du vidéoprojecteur.
 
-![La page « Rédaction · bilan » : chiffres de la période, entonnoir, postes, critique, retours au tampon, projets, semaines](../img/redaction-bilan.png)
+![La page « Rédaction · bilan » : quatre chiffres, le coût par poste et par modèle, l'entonnoir jusqu'à Jira, une ligne par intention](../img/redaction-bilan.png)
 
 ## L'installer et la projeter
 
@@ -14,20 +14,30 @@ La page se met à jour toutes les 15 minutes, et tout de suite quand une intenti
 
 En haut, les filtres : période (7, 30 ou 90 jours), projet touché, et « essais » (les intentions qui commencent par « [ESSAI », écartées par défaut).
 
-- **Les chiffres de la période** : intentions, tickets créés (et par intention), listes tamponnées du premier coup (et rejetées), tours de critique en moyenne (et intentions au plafond de 3 tours), temps de l'intention jusqu'à ton tampon, ton attente au tampon, coût d'un ticket créé.
-- **De l'intention à Jira** : l'entonnoir en tickets (ceux de la dernière version de chaque intention) : proposés, relus « OK » par la critique, tamponnés, créés ; et en rouge ce qui sort à chaque marche : intention en panne avant le tampon, tickets passés au tampon avec les réserves de la critique, rejetés, en panne à la création.
-- **Les postes** : pour 📚 Recherche, ✍ Rédaction et 🧐 Critique, le modèle, la durée et le coût moyens par intention ; en orange, le poste qui coûte le plus. Sur la même ligne : projets touchés, versions par intention, renvois de la critique. Puis la création dans Jira (pannes) et ton attente au tampon.
-- **Ce que relève la critique** : ses notes classées par mots-clés (langue, critères d'acceptation, découpage, fichier inventé, doublon, points, composant). En rouge, ce qui revient au tour suivant : la rédaction ne l'a pas corrigé, sa consigne est à resserrer.
-- **Pourquoi tu demandes des changements** : tes retours au tampon, classés (découpage, mauvais projet, trop long, titre, points), chacun rattaché au poste à régler.
-- **Où vont les tickets** : projet × type des tickets créés et leurs points moyens, puis combien d'intentions se découpent en 1, 2, 3 tickets ou plus.
-- **Par semaine** : les tickets créés et le coût d'un ticket.
-- **Historique**, l'intention la plus récente d'abord : ses tickets (liens Jira), les projets touchés, les tours de critique, l'issue, la durée, le coût. Un clic ouvre sa fiche.
+- **Quatre chiffres** : tickets créés dans Jira sur les tickets proposés (en rouge quand rien n'est arrivé dans Jira), coût par intention et par ticket créé, listes rejetées au tampon (et en panne, et tamponnées du premier coup), attente médiane à ton tampon.
+- **Où part l'argent** : le coût de 📚 Recherche, ✍ Rédaction et 🧐 Critique sur la période, colorié par modèle (Opus, Sonnet, Haiku). Le coût vient de Kronn (entrée, contexte relu en cache, sortie) ; il est complet, les postes ne lançant aucun sous-agent. La création dans Jira ne coûte rien ; ton tampon, c'est du temps.
+- **De l'intention à Jira** : l'entonnoir en tickets (ceux de la dernière version de chaque intention) : proposés, relus « OK » par la critique, tamponnés, créés ; et en rouge ce qui sort à chaque marche.
+- **Par intention**, la plus récente d'abord : projets, tickets créés sur proposés (liens Jira), tours de critique, issue, coût par poste, coût, part de chaque modèle, durée. Un clic ouvre sa fiche.
+- **Analyse de la rédaction**, repliée : ce qui sert à régler la salle plutôt qu'à lire une intention.
+  - **Les postes** : modèle, durée et coût moyens par intention, projets touchés, versions, renvois de la critique ; la création Jira et ton tampon.
+  - **Ce que relève la critique** : ses notes classées par mots-clés (langue, critères d'acceptation, découpage, fichier inventé, doublon, points, composant) ; en rouge, ce qui revient au tour suivant.
+  - **Pourquoi tu demandes des changements** : tes retours au tampon, classés (découpage, mauvais projet, trop long, titre, points), chacun rattaché au poste à régler.
+  - **Où vont les tickets** : projet × type des tickets créés et leurs points moyens, puis combien d'intentions se découpent en 1, 2, 3 tickets ou plus.
+  - **Par semaine** : les tickets créés et le coût d'un ticket.
 
 ## La fiche d'une intention
 
-Le déroulé poste par poste (chaque version de la rédaction, chaque relecture, ton tampon, la création), l'intention telle que tu l'as donnée, ce qu'a trouvé la recherche (projets et pistes), les notes de la critique à chaque version, les titres de chaque version côte à côte (« identique » quand rien n'a changé), les tickets créés avec leur lien, tes retours au tampon et le coût de chaque poste. Les fiches détaillées sont gardées pour les intentions les plus récentes.
+Cinq onglets :
 
-![Fiche d'une intention : déroulé, recherche, notes de la critique, versions, tickets créés, coût par poste](../img/redaction-bilan-fiche.png)
+- **💰 Coût** : passage par passage (recherche, rédaction v1, critique 1, rédaction v2…), le modèle, la durée, les jetons de sortie et le coût de chacun, un passage en échec marqué ; puis la création Jira et l'attente à ton tampon.
+- **🎫 Tickets** : une carte par ticket de la dernière version (projet, points, sa clé Jira une fois créé), les titres de chaque version côte à côte (« identique » quand rien n'a changé) et les tickets créés avec leur lien.
+- **🧐 Critique** : une carte par note, à chaque version, avec sa gravité (bloquant ou conseil) ; tes retours au tampon.
+- **📚 Recherche** : les projets touchés et les pistes, en pleine largeur, les chemins de fichiers en police de code.
+- **⏱ Déroulé** : poste par poste (chaque version, chaque relecture, ton tampon, la création), et l'intention telle que tu l'as donnée.
+
+Les fiches détaillées sont gardées pour les intentions les plus récentes.
+
+![Fiche d'une intention : l'onglet Critique, une carte par note](../img/redaction-bilan-fiche.png)
 
 ## Au 2e étage
 

diff --git a/CHANGELOG.md b/CHANGELOG.md
@@ -8,6 +8,7 @@ Format : [Keep a Changelog](https://keepachangelog.com/fr/1.1.0/). Versions : `0
 
 ### Ajouté
 
+- Page « Rédaction · bilan », comme la Chaîne : quatre chiffres (tickets créés sur proposés, coût par intention et par ticket créé, listes rejetées, attente à ton tampon), « Où part l'argent » par poste et par modèle, une ligne par intention avec son coût par poste et ses modèles, une fiche en onglets (💰 Coût passage par passage, 🎫 Tickets, 🧐 Critique avec la gravité de chaque note, 📚 Recherche en pleine largeur, ⏱ Déroulé) ; l'analyse est repliée. Le relevé garde le coût de chaque passage (un cache d'avant est relu une fois).
 - Page « Chaîne · bilan » : le **coût réel** de chaque ticket, lu dans les journaux Claude Code de chaque run (entrée, contexte relu en cache, sortie, au prix de chaque modèle, sous-agents compris ; réglage `impl.prix`) : le compteur de Kronn ne compte que la sortie. Une ligne par ticket (▸ ses runs), le coût par poste et par modèle, une fiche en onglets (💰 Coût détaillé par bloc et sous-workflow, 🎯 Exigences en pleine largeur, ⏱ Déroulé, 📚 Doc et impact avec un schéma dont les flèches ne traversent plus les boîtes). Quatre chiffres en haut, l'analyse de la chaîne repliée. `impl.bilan_depuis` et `impl.bilan_exclus` écartent des runs d'essai du rapport.
 - 1er étage : on voit qu'un bureau travaille. La bulle de l'agent au travail dit sa dernière action et le nombre d'actions (📖 lit, ⌨ commande, ✏ écrit, 🔎 cherche ; `last_activity` de Kronn, lu par le relevé sans IA), avec une pastille qui clignote quand l'action a moins de 30 s ; sans action depuis 5 min, elle passe au jaune. Pendant ses étapes (écrire le plan, décider après les contrôles), l'orchestrateur vient dans le bureau, qui paraissait vide ; la fiche du bureau dit « En ce moment ». Les bulles des bureaux du haut ne passent plus sous le grand tableau.
 - Créer un ticket : le poste 📚 Recherche lit Jira, en lecture seule (MCP Atlassian) : les tickets que l'intention cite, l'épic parent et ses tickets, ce qui existe déjà. Une intention qui n'est qu'une clé de ticket (« EW-1234 ») lui fait lire ce ticket pour le découper. Rien n'est créé ni modifié dans Jira avant le tampon.
